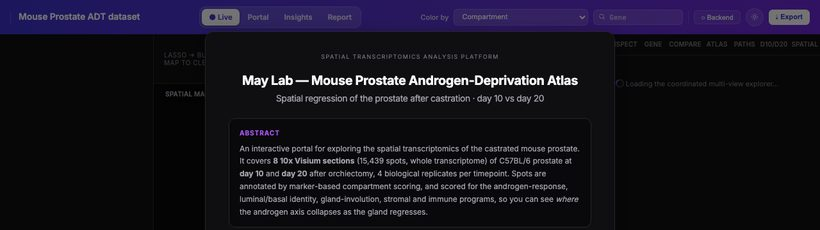
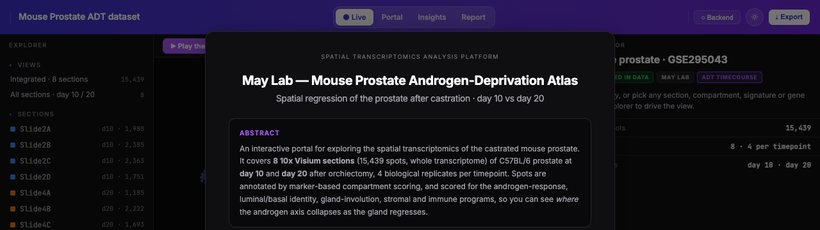
Add real live screenshots for MCC Xenium and May prostate portals
Claude-Session: https://claude.ai/code/session_01AeoWF99Erig99W14f8amAS

diff --git a/index.html b/index.html
@@ -630,7 +630,7 @@
           </div>
         </div>
         <div class="card" data-cat="spatial" data-proj="mcc-xenium">
-          <div class="card-thumb" data-label="Xenium"></div>
+          <div class="card-thumb" data-shot="img/mcc.jpg"></div>
           <span class="cat-badge">Spatial</span>
           <h3>MCC Xenium spatial portal</h3>
           <p>10x Xenium spatial transcriptomics integrated with matched H&amp;E histology across a 218K+ cell Merkel cell carcinoma tissue microarray, aligning molecular and histological features to map the tumor–immune microenvironment.</p>
